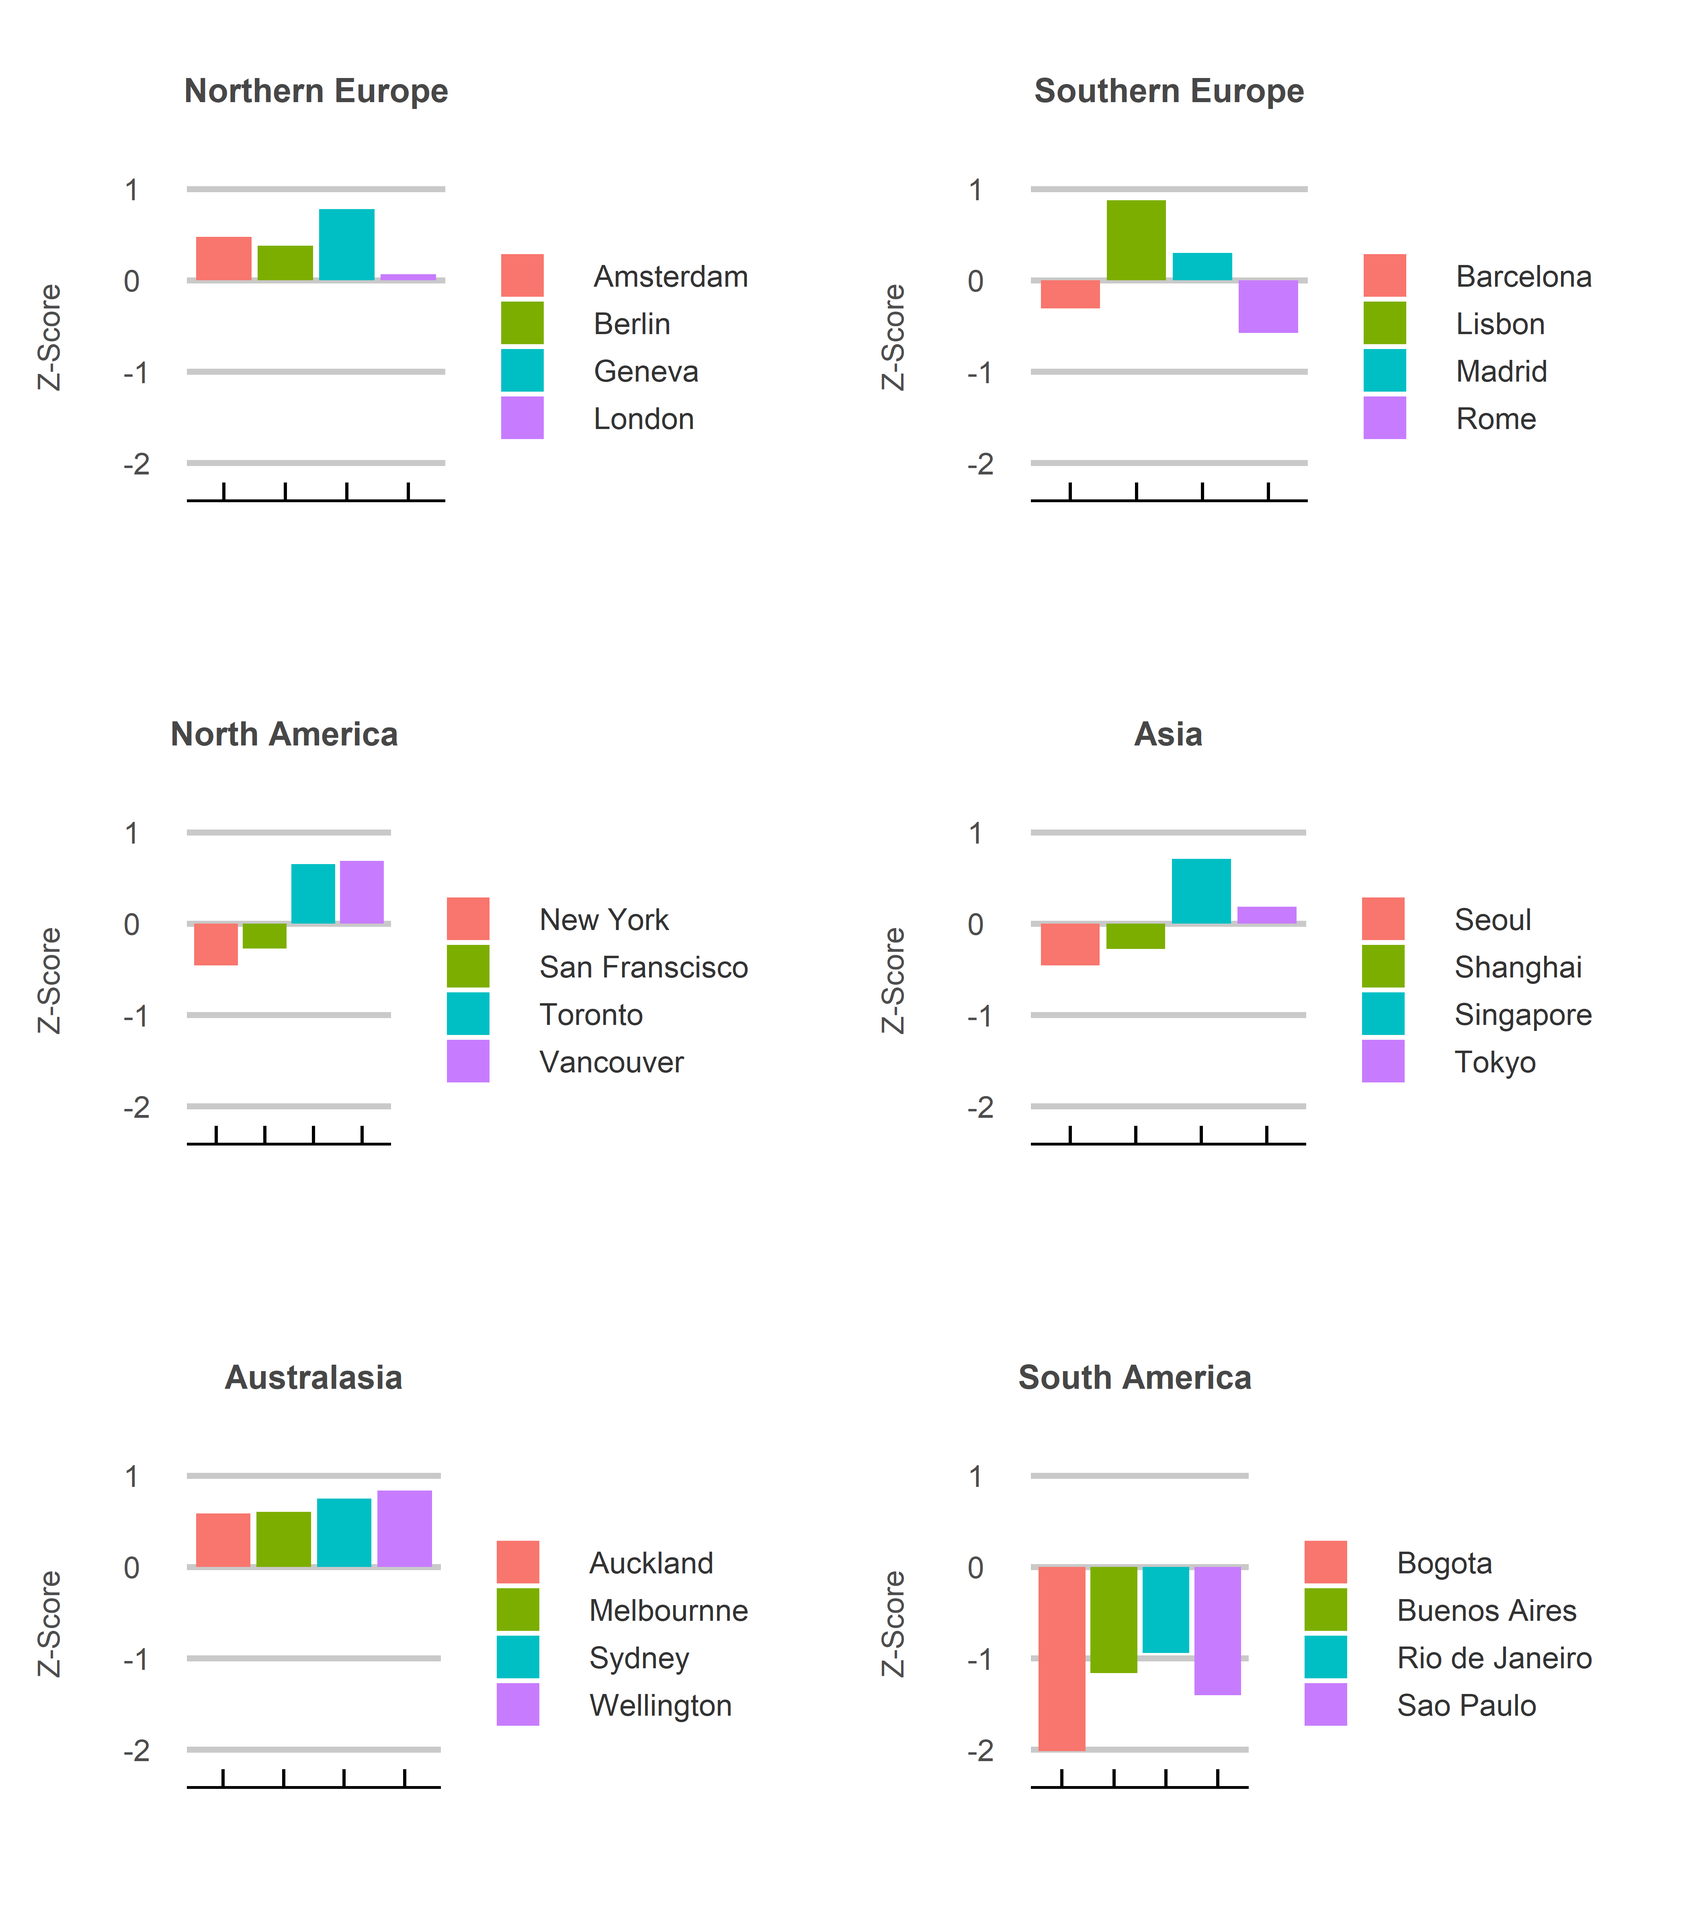
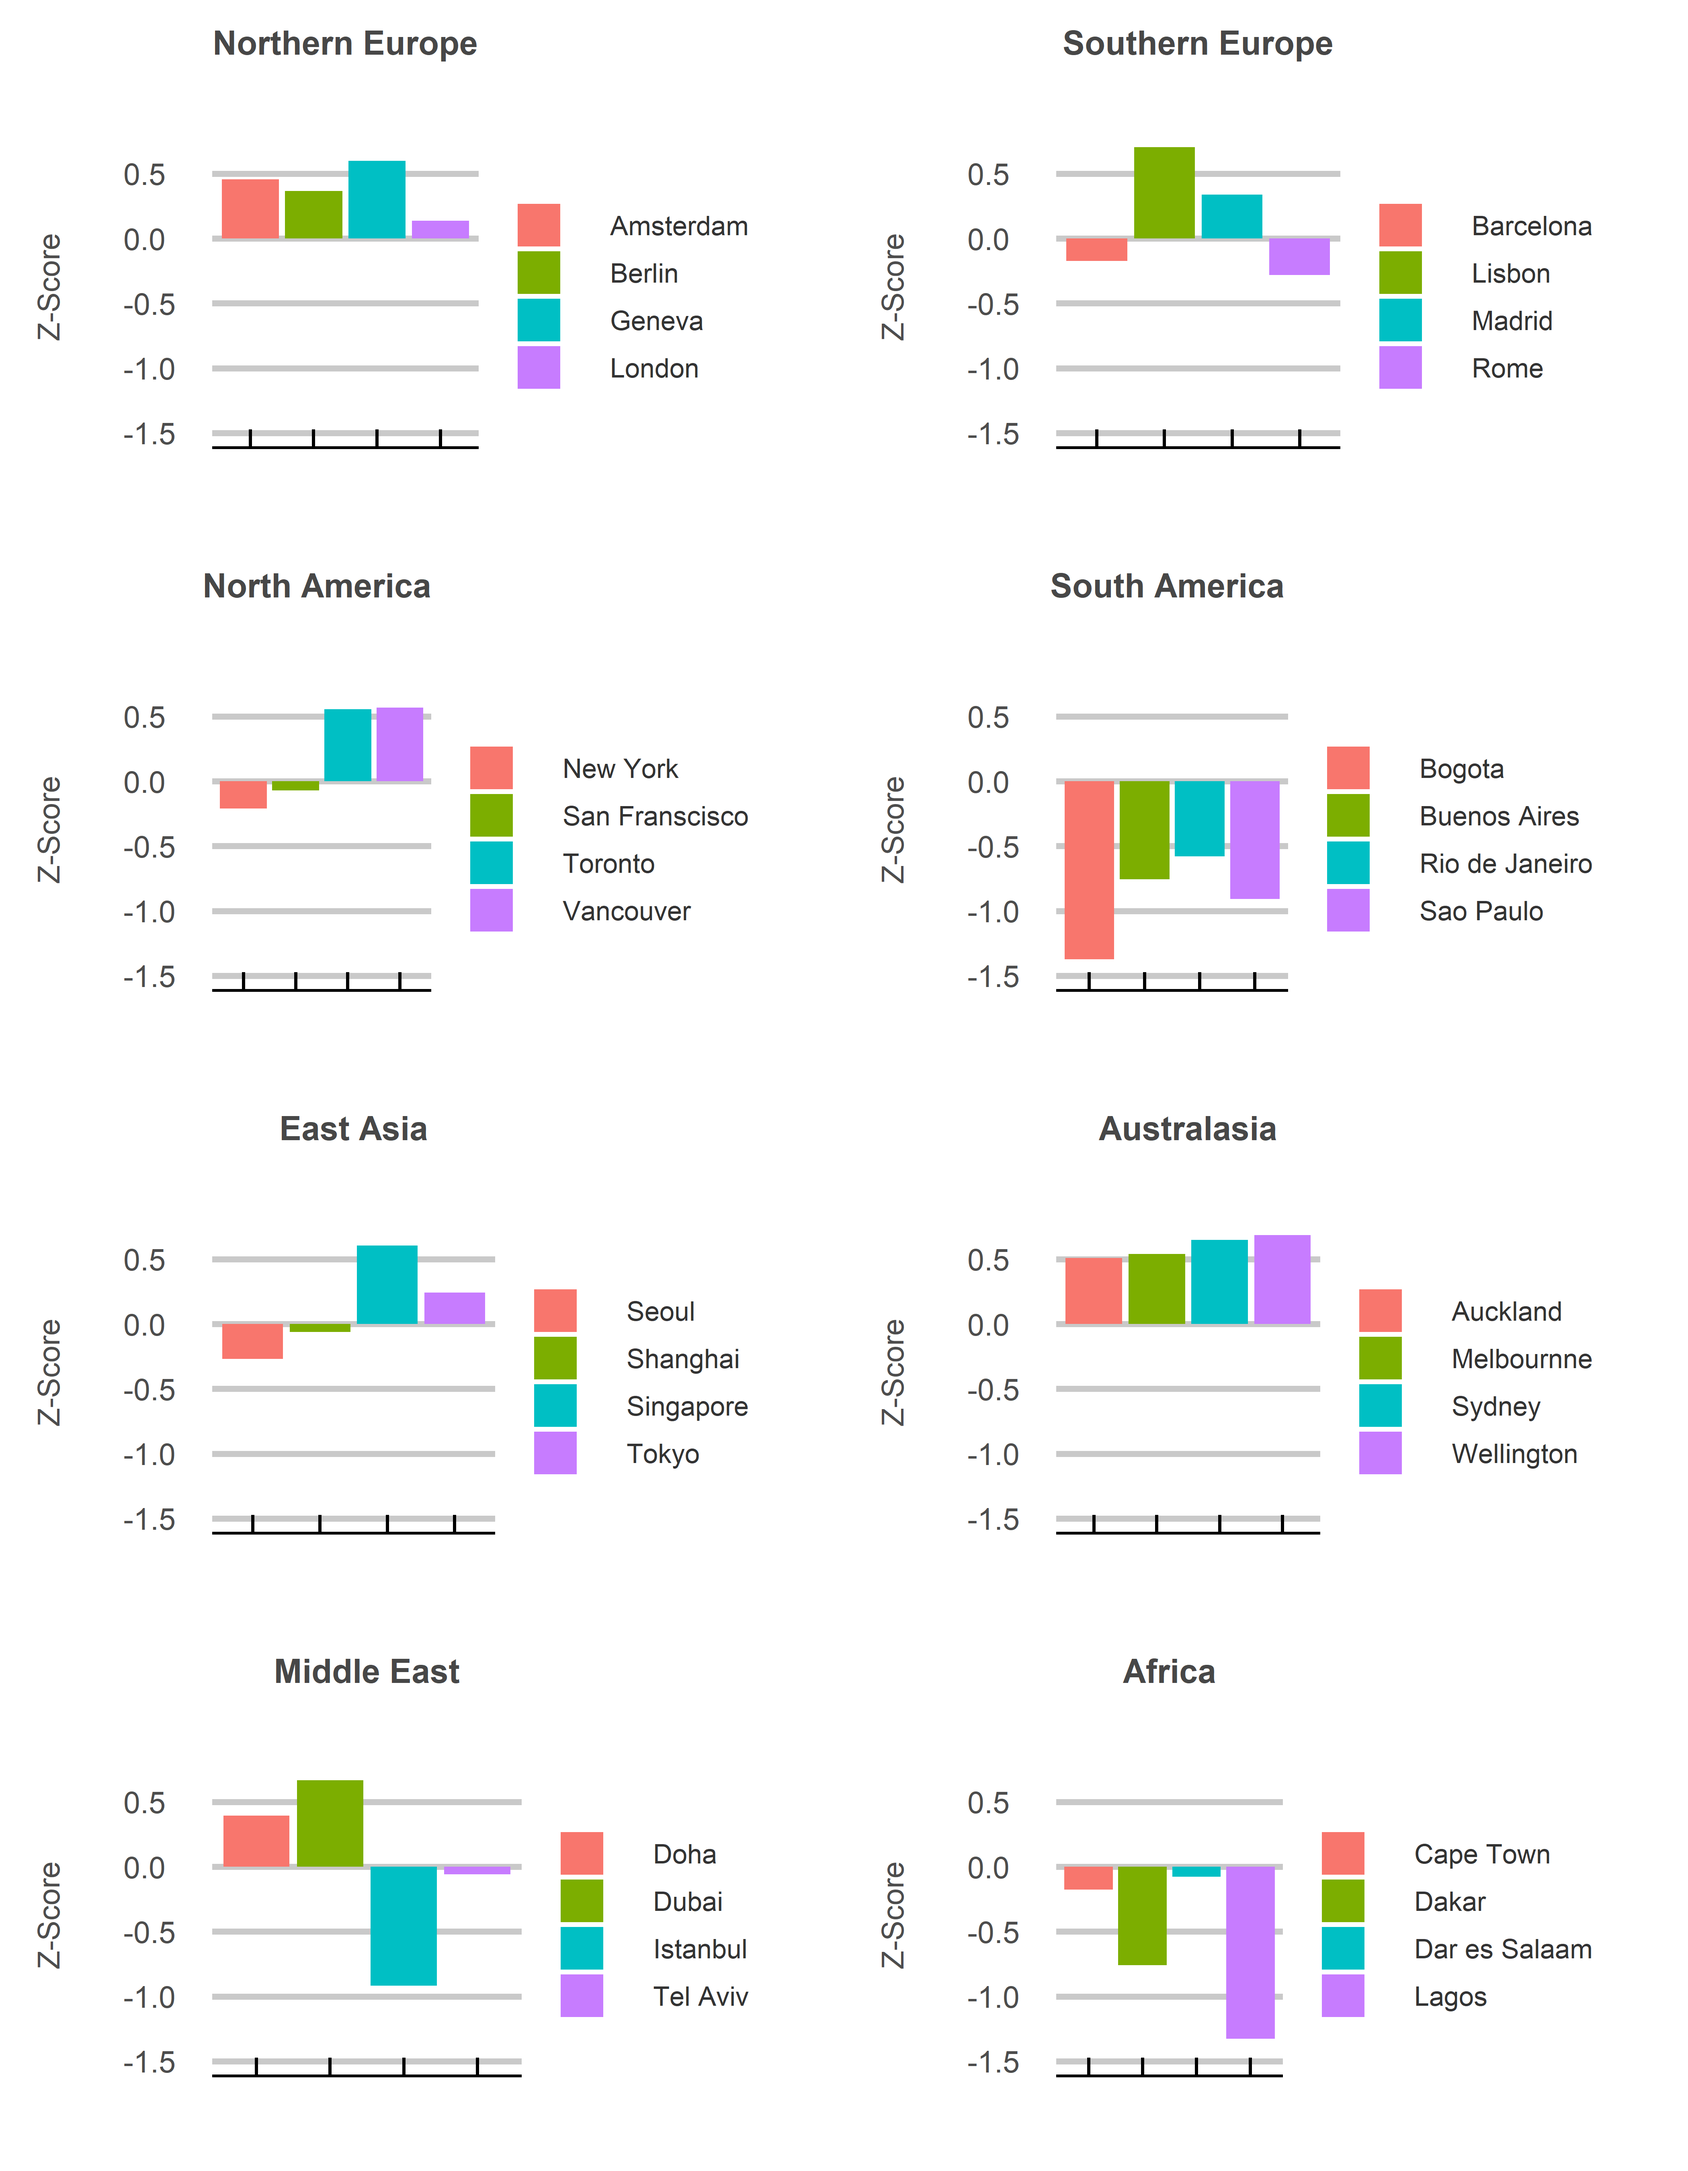
added more countries and adjusted plots

diff --git a/sweet_home_alabama.md b/sweet_home_alabama.md
@@ -7,15 +7,16 @@ Jack Carter
 
 The movie Sweet Home Alabama touches on the tension some face between
 big city life and the benefits of somewhere smaller that feels more like
-home. But what if you could have the benefits of living in a major
-global city with less of the negative side effects? Are some
-international hubs better than others when it comes to quality of life?
-This project uses data from a range of sources to tackle that question.
-The answer is yes.
+home. But what if you could have the benefits of living in a major city
+with less of the negative side effects? Are some global hubs better than
+others when it comes to quality of life? This project uses data from a
+range of sources to tackle that question. The answer is yes.
 
  
 
 ![](sweet_home_alabama_files/figure-gfm/unnamed-chunk-1-1.png)<!-- -->
+
+ 
 
 ![](sweet_home_alabama_files/figure-gfm/unnamed-chunk-2-1.png)<!-- -->
 
@@ -29,8 +30,8 @@ The quality of life metric includes the following variables:
   - average wage
   - cost of living
   - sustainability
-  - government effectivness
-  - saftey
+  - government effectiveness
+  - safety
   - pollution
   - hours of sun
   - political stability
@@ -40,32 +41,32 @@ The quality of life metric includes the following variables:
 The z-score for each data distribution is calculated and multiplied by a
 weight before being added together and divided by the number of
 variables to get a total score. The weights are determined by order of
-importance according to the modeler’s personal preferences.
+importance according to the modeler’s personal preference.
 
    
 
 <img src="total_score.JPG" alt="Total score calculation">
 
- 
+   
 
 #### Weights
 
 ##### Psychological factors
 
   - population density, sustainability and pollution  
-  - weight = x2
+  - weight = x1.5
 
 ##### Security factors
 
-  - safety, stability and government effectiveness  
-  - weight = x1.5
+  - safety, political stability and government effectiveness  
+  - weight = x1.25
 
 ##### Other factors
 
   - average wage, cost of living and hours of sun  
   - weight = x1
 
- 
+   
 
 ## **Sources**
 
